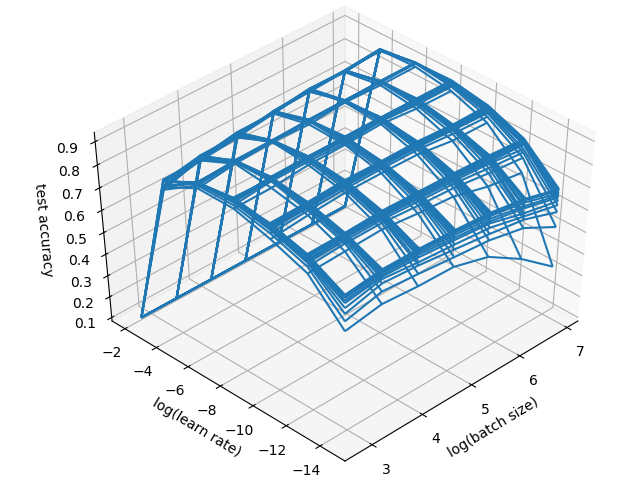
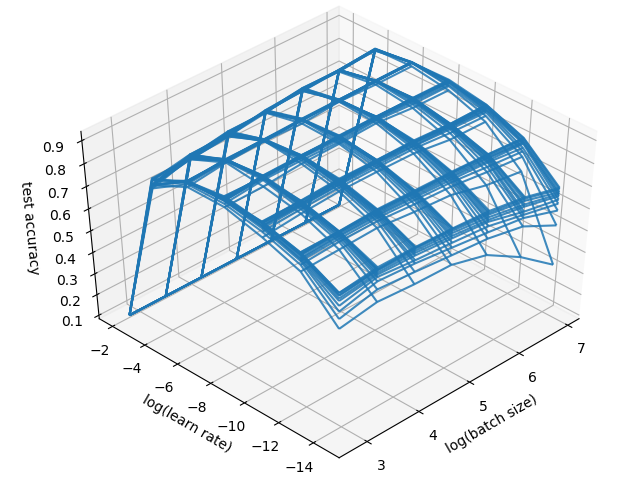
transparency to improve visual

diff --git a/mnist/plot.py b/mnist/plot.py
@@ -35,7 +35,7 @@ def gridplot(steporder, gridshape=(7,7)):
         y = np.log(np.reshape(step[:, 2], gridshape))
         z = np.reshape(step[:, 5], gridshape)
         print(z)
-        ax.plot_wireframe(x, y, z)
+        ax.plot_wireframe(x, y, z, alpha=0.85)
     plt.show()
 
 
